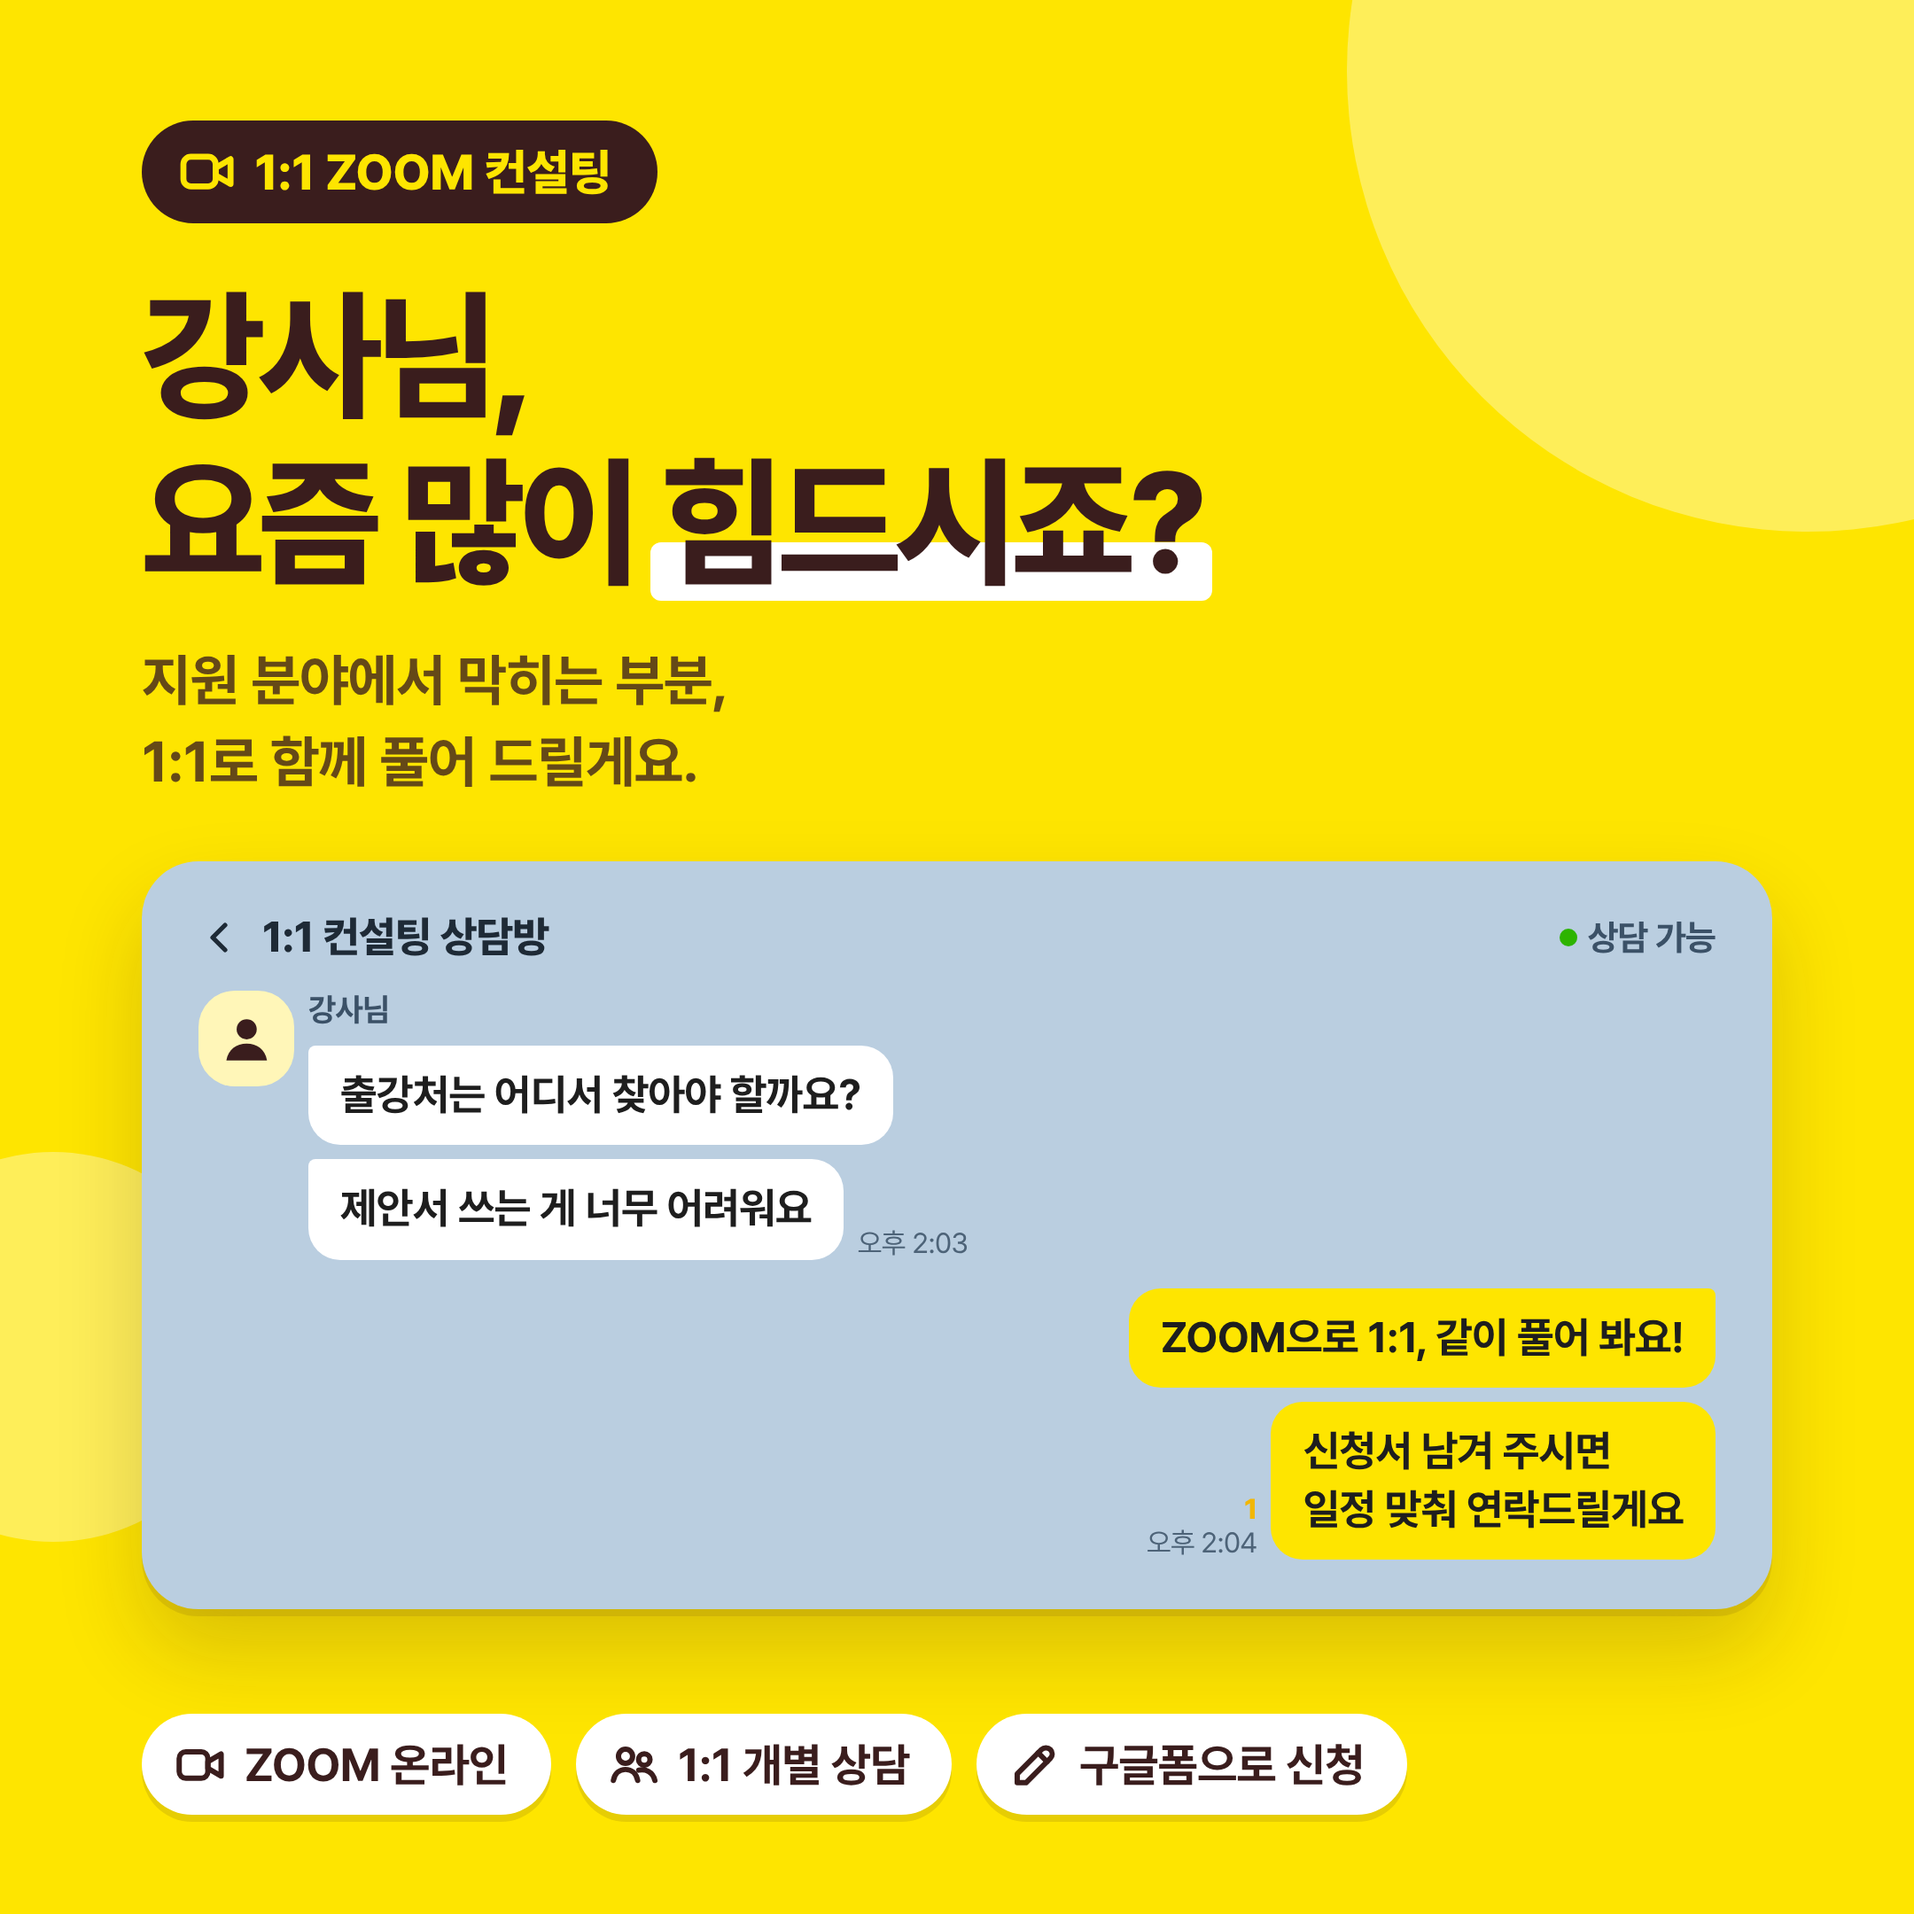
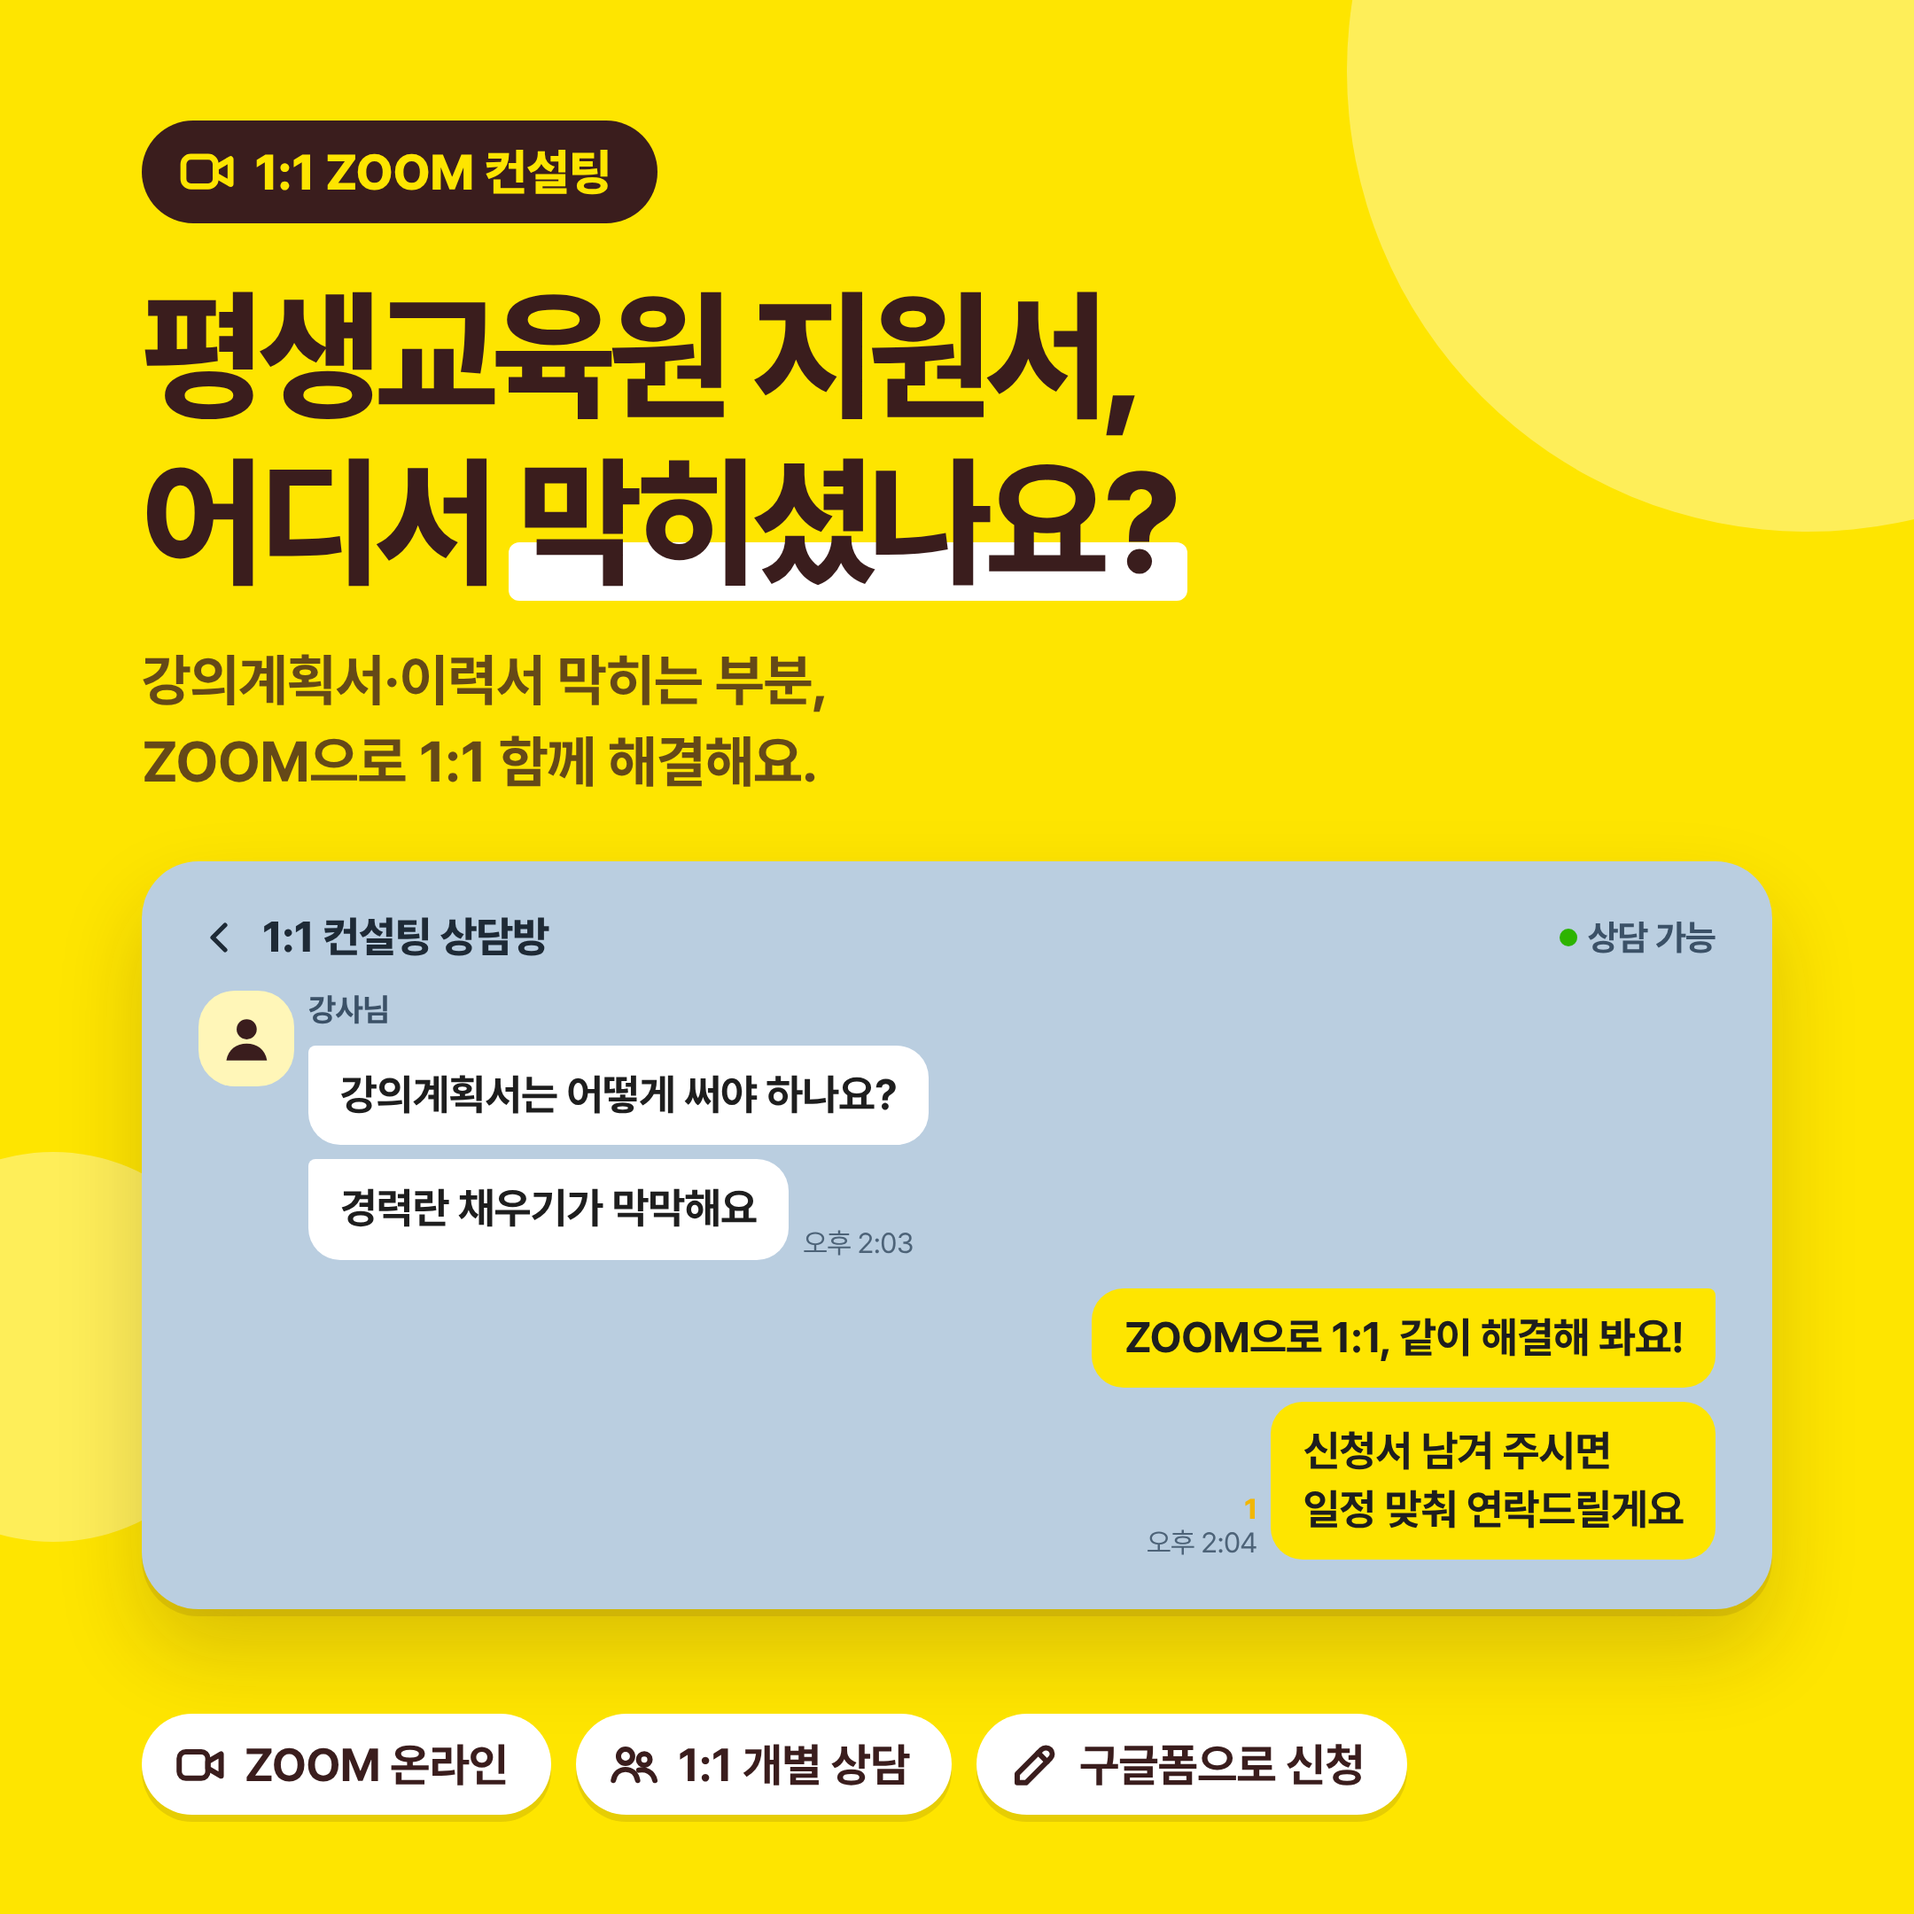
Retarget consulting promo to lifelong-education applications
- Thumbnail headline and chat copy now focus on 평생교육원 지원서
- Form asks about target institution, course, application status and
  deadline, and lists application-document pain points
- README post text updated to match

Claude-Session: https://claude.ai/code/session_01G4atFpUHmW2HB8yGsukK2u

Changed region(s): [[0.062, 0.1551, 0.6514, 0.4343], [0.1861, 0.5273, 0.4963, 0.6824], [0.5583, 0.6514, 0.8375, 0.7444]]

diff --git a/promo/zoom-consulting/thumbnail.html b/promo/zoom-consulting/thumbnail.html
@@ -2,7 +2,7 @@
 <html lang="ko">
 <head>
 <meta charset="utf-8">
-<title>1:1 ZOOM 컨설팅 썸네일</title>
+<title>평생교육원 지원서 컨설팅 썸네일</title>
 <!--
   1:1 ZOOM 컨설팅 모집 썸네일 (노란 배경 + 채팅 말풍선 스타일)
   - thumbnail.html?layout=wide    → 1200×630 (홈페이지 배너·링크 미리보기)
@@ -132,8 +132,8 @@ h1 em::after {
       <svg width="1.2em" height="1.2em" viewBox="0 0 24 24" fill="none" stroke="currentColor" stroke-width="2.4" stroke-linecap="round" stroke-linejoin="round"><rect x="2.5" y="6" width="13" height="12" rx="3"/><path d="M15.5 10.5l6-3.5v10l-6-3.5z"/></svg>
       1:1 ZOOM 컨설팅
     </span>
-    <h1>강사님,<br>요즘 많이 <em>힘드시죠?</em></h1>
-    <p class="sub">지원 분야에서 막히는 부분,<br>1:1로 함께 풀어 드릴게요.</p>
+    <h1>평생교육원 지원서,<br>어디서 <em>막히셨나요?</em></h1>
+    <p class="sub">강의계획서·이력서 막히는 부분,<br>ZOOM으로 1:1 함께 해결해요.</p>
   </div>
 
   <div class="chat">
@@ -150,13 +150,13 @@ h1 em::after {
       </div>
       <div class="msgs">
         <span class="name">강사님</span>
-        <div class="row you"><div class="bubble">출강처는 어디서 찾아야 할까요?</div></div>
-        <div class="row you"><div class="bubble">제안서 쓰는 게 너무 어려워요</div><div class="meta">오후 2:03</div></div>
+        <div class="row you"><div class="bubble">강의계획서는 어떻게 써야 하나요?</div></div>
+        <div class="row you"><div class="bubble">경력란 채우기가 막막해요</div><div class="meta">오후 2:03</div></div>
       </div>
     </div>
 
     <div class="row me">
-      <div class="bubble">ZOOM으로 1:1, 같이 풀어 봐요!</div>
+      <div class="bubble">ZOOM으로 1:1, 같이 해결해 봐요!</div>
     </div>
     <div class="row me">
       <div class="meta"><b>1</b>오후 2:04</div>

diff --git a/promo/zoom-consulting/README.md b/promo/zoom-consulting/README.md
@@ -1,4 +1,4 @@
-# 1:1 ZOOM 컨설팅 모집 자료
+# 평생교육원 지원서 1:1 ZOOM 컨설팅 모집 자료
 
 | 파일 | 용도 |
 |---|---|
@@ -16,13 +16,13 @@
 4. 함수 `createConsultingForm` 을 골라 [실행]하고 권한을 허용한다.
 5. 실행 로그에 나온 **응답 링크**를 홈페이지 게시글과 [신청하기] 버튼에 붙인다.
 
-응답은 함께 만들어지는 구글 시트 "1:1 ZOOM 컨설팅 신청자 명단"에 쌓인다.
+응답은 함께 만들어지는 구글 시트 "평생교육원 지원서 컨설팅 신청자 명단"에 쌓인다.
 
 ### 신청서 문항
 
 1. **기본 정보**: 성함, 휴대폰 번호(형식 검사), 이메일(형식 검사)
-2. **활동·지원 분야**: 분야(복수 선택), 주 강의 주제, 강사 경력
-3. **고민**: 고민되는 부분(복수 선택), 상담 때 이야기하고 싶은 내용(선택)
+2. **지원하려는 곳과 강좌**: 기관 유형(대학 부설·평생학습관·주민센터 등), 개설하고 싶은 강좌, 지원 상황, 마감일(선택), 강의 경력
+3. **막히는 부분**: 이력서, 자기소개서, 강의계획서, 강좌 소개글, 수강료·재료비, 증빙 서류 등(복수 선택), 상담 때 이야기하고 싶은 내용(선택)
 4. **희망 일정**: 가능 요일, 가능 시간대, ZOOM 사용 경험, 알게 된 경로(선택)
 5. **개인정보 수집·이용 동의** (필수)
 
@@ -36,11 +36,18 @@ node promo/zoom-consulting/render.cjs
 
 ## 홈페이지 게시글 문구
 
-> **[모집] 강사님을 위한 1:1 ZOOM 컨설팅**
+> **[모집] 평생교육원 지원서, ZOOM 1:1로 함께 해결해요**
 >
-> 강사님, 요즘 많이 힘드시죠?
-> 지원 분야를 정하는 일, 강의 제안서와 이력서 쓰기, 기관 섭외, 강의 운영까지 혼자 고민하기 어려운 부분이 많습니다.
-> 지금 겪고 계신 어려움을 1:1로 듣고 함께 방향을 찾는 컨설팅을 마련했습니다.
+> 평생교육원 지원서 쓰다가 막히셨나요?
+> 강사 이력서의 경력란, 주차별 강의계획서, 수강생을 모으는 강좌 소개글까지
+> 혼자 쓰다 보면 어디서부터 손대야 할지 막막할 때가 많습니다.
+>
+> 작성 중인 지원서를 함께 보면서, 막히는 부분을 ZOOM 1:1로 해결해 드립니다.
+>
+> ■ 이런 분께 추천해요
+> - 평생교육원·평생학습관 강사 지원을 처음 준비하시는 분
+> - 강의계획서를 주차별로 어떻게 채울지 모르겠는 분
+> - 지원했는데 떨어져서 무엇을 고쳐야 할지 궁금한 분
 >
 > ■ 진행 방식: ZOOM 온라인 1:1 (약 ○○분)
 > ■ 일정: ○월 ○일 ~ ○월 ○일 중 개별 조율
